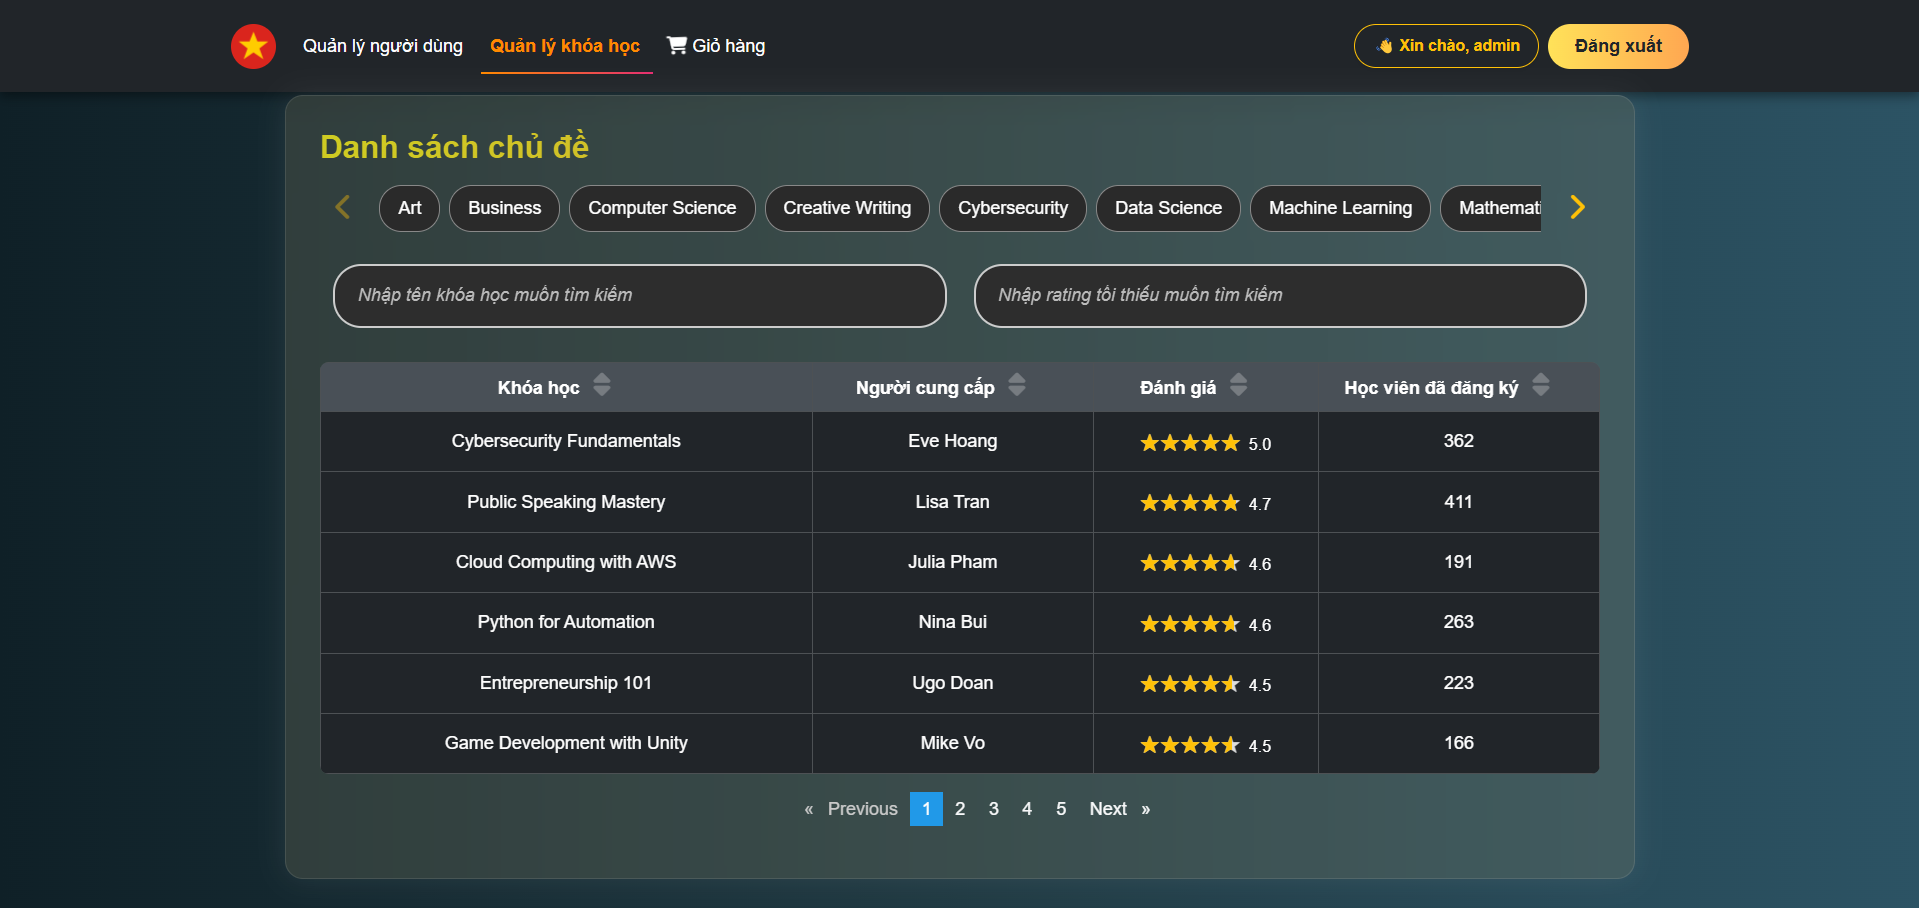
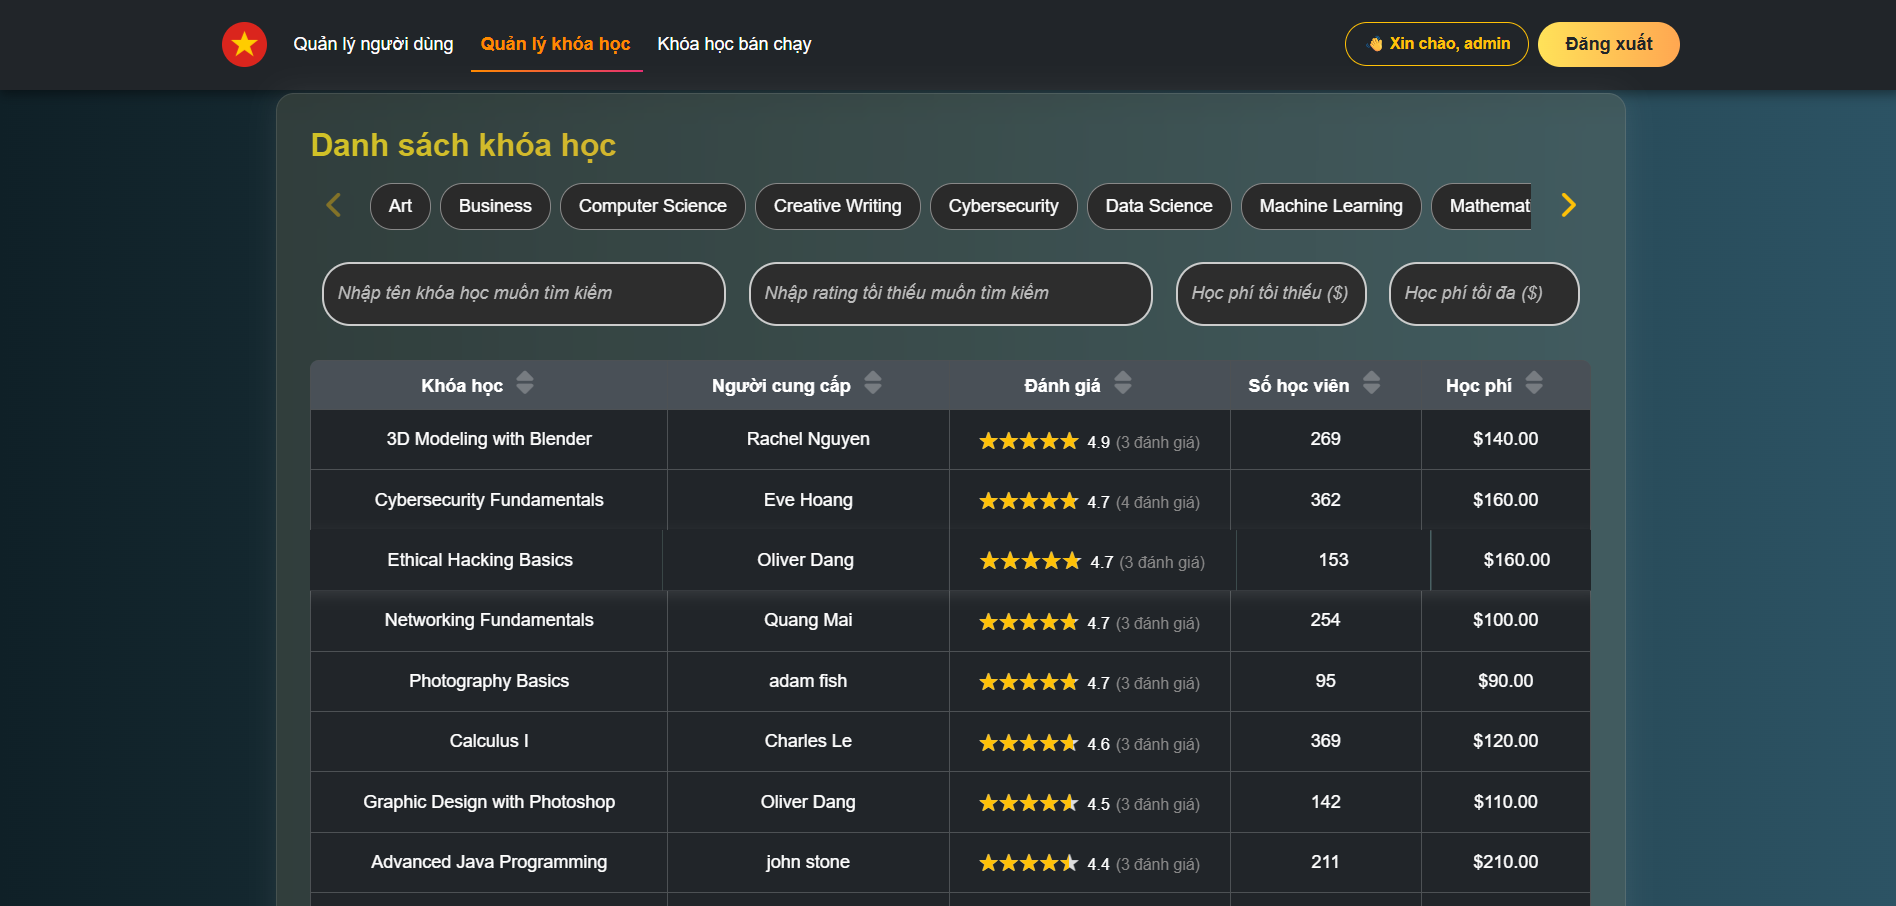
update

diff --git a/README.md b/README.md
@@ -16,20 +16,15 @@
 
 #### 👥 User Management UI
 Manage users with full CRUD operations, search, validation and paging.
-![User Management](src/main/resources/templates/assets/giao_dien_users.png)
-
-#### ✅ Validation, Search, and Sorting
 Client-side validation, search by name, and sortable columns.
-![Validation, Search, Sorting](src/main/resources/templates/assets/validate_search_sort.png)
+![User Management](src/main/resources/templates/assets/all_users.png)
 
 #### 📝 Course Interface
 View and manage courses from users.
-![Review Management](src/main/resources/templates/assets/all_courses.png)
+Filter and search courses.
+![Course Management](src/main/resources/templates/assets/all_courses.png)
 
-#### 🔍 Filter, Search and Sort Courses
-Filter and search course reviews based on course name, user, or rating.
-![Filter and Search Reviews](src/main/resources/templates/assets/course_features.png)
+#### 📝 Course Interface
+View and manage trending courses. 
+![Course Management](src/main/resources/templates/assets/hot-trend-courses.png)
 
-#### 🔐 Basic Login Page
-Simple login screen with hardcoded credentials for demonstration.
-![Login Page](src/main/resources/templates/assets/basic_login.png)
